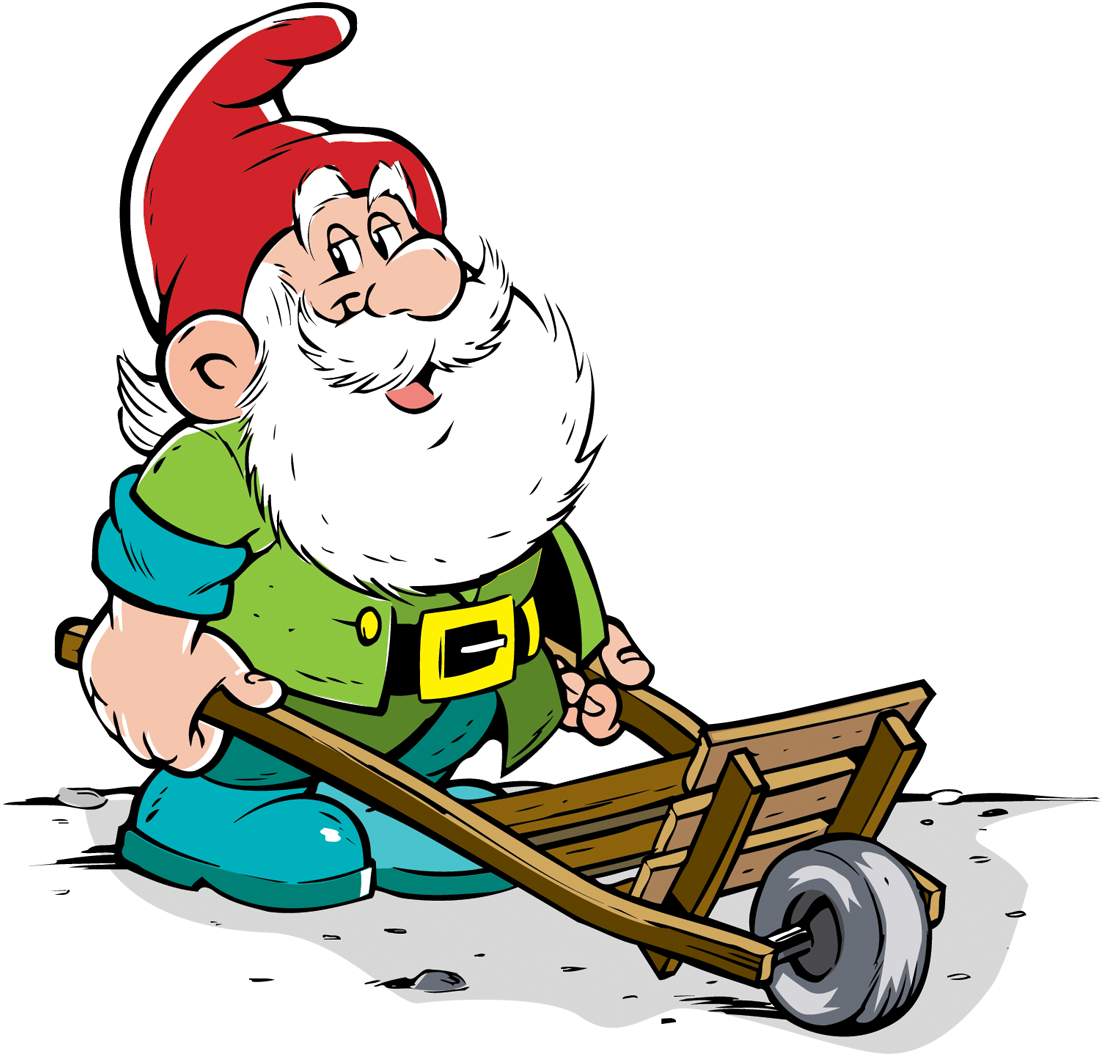
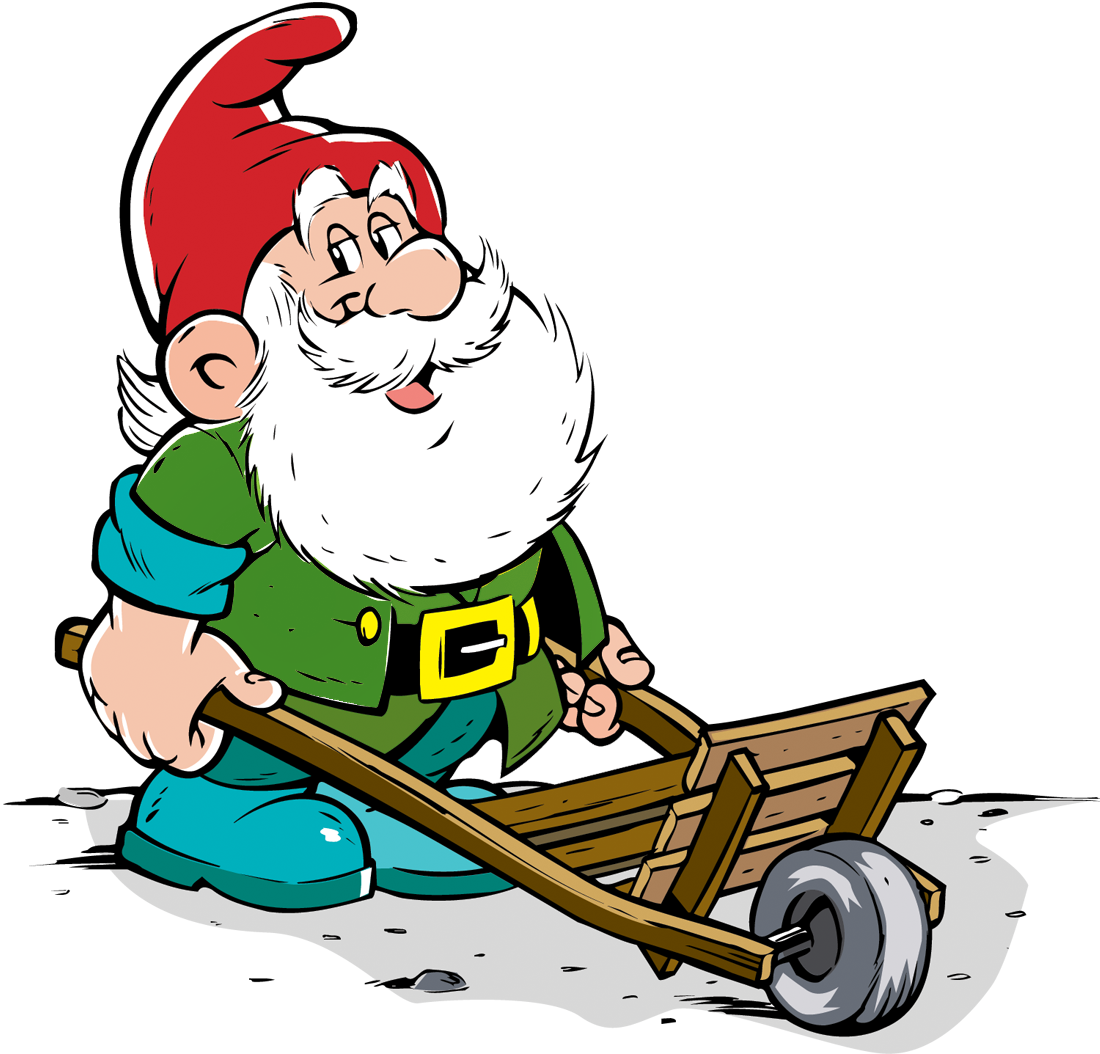
changed background color

Changed region(s): [[0.1236, 0.3947, 0.5564, 0.6679]]

diff --git a/app/assets/stylesheets/application.css b/app/assets/stylesheets/application.css
@@ -24,7 +24,7 @@ body {
 
 body {
   font-family: "Open Sans", "Helvetica Neue", "Helvetica", "Arial", sans-serif;
-  background-color: #90dd2c;
+  background-color: #58CF3D;
   margin: 0px;
   padding: 0px;
   color: #555555;
